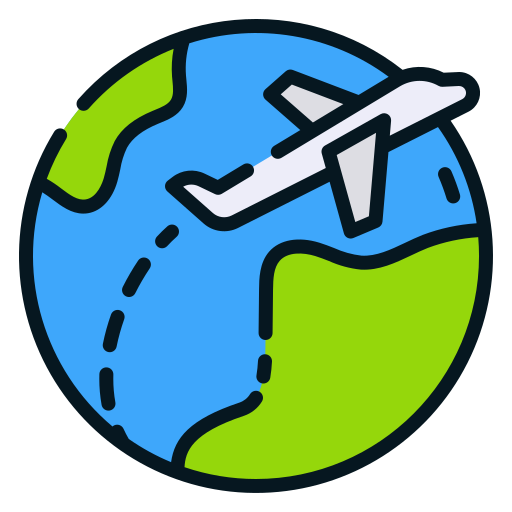
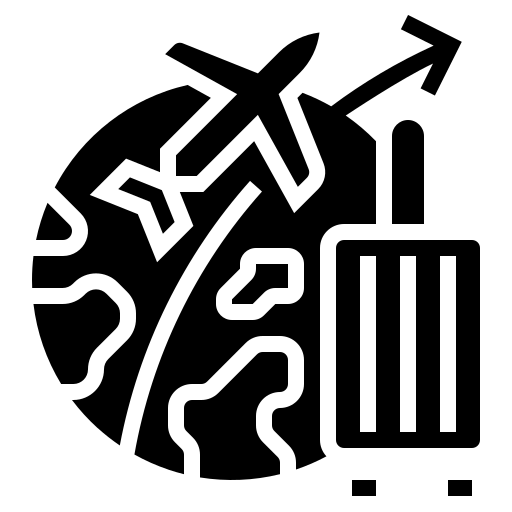
Upgrade UI

diff --git a/mypage.html b/mypage.html
@@ -96,7 +96,7 @@ font-size: 10px;
         box-shadow:
           0 8px 32px rgba(0, 0, 0, 0.35),
           inset 0 1px 0 rgba(255, 255, 255, 0.15);
-
+transition: color 0.2s ease, border-color 0.2s ease;
         color: rgb(255, 255, 255);
       }
 
@@ -106,7 +106,7 @@ font-size: 10px;
       .linkedin:hover,
       .tweeter:hover {
         background-color: rgba(1, 7, 21, 0.355);
-        transition: 0.7s;
+         transition: color 0.2s ease, border-color 0.2s ease;
         transform: scale(0.97);
         color: rgb(26, 175, 26);
       }
@@ -139,6 +139,16 @@ font-size: 10px;
         border-radius: 16px;
         border: 1px solid  rgba(255, 255, 255, 0.41);;
         
+      }
+
+        .tourizm:hover,
+      .tweet:hover,
+      .link:hover,
+      .tweet:hover,
+      .soft:hover,
+      .git:hover{
+     background-color: white;
+     outline: none;
       }
       .img-man{
         height: 100px;
@@ -173,7 +183,7 @@ font-size: 10px;
   <body>
     <div class="card">
       <img class="img-man" src="./javascript-amazon-project-main/img/software-engineer.png">
-      <h1>Hi Everyone, My name is Saidjon and I'm new to Full Stack Development (Software Engineering). I'm currently learning to write code using the VS Code editor. This page includes my social media links and materials.</h1>
+      <h1>Hi Everyone, My name is Saidjon and I'm new to Full Stack Development (Software Engineering). I'm currently learning to write code using the VS Code editor. This page includes my social media links and materials,I'm currently pursuing a Master's degree in Tourism Management in South Korea.</h1>
     </div>
 
     <div class="container">
@@ -195,13 +205,13 @@ font-size: 10px;
  
     
       <div class="card-container"v >
-         <img class="tourizm" src="./javascript-amazon-project-main/img/tourizm.png" >
+         <img class="tourizm" src="./javascript-amazon-project-main/img/airplane-around-earth.png" >
   <div class="subject"> Tourism Management Materials </div>
       </div>
     
       <a href="https://www.linkedin.com/feed/">
      <div  class="card-container" >
-         <img class="link" src="./javascript-amazon-project-main/img/linkledin.webp" >
+         <img class="link" src="./javascript-amazon-project-main/img/linkedin.png" >
          <div class="linkedin"> LinkedIn </div>
       </div>
       </a>
@@ -221,7 +231,7 @@ font-size: 10px;
       <a href="https://discord.com/channels/@me">
 
       <div  class="card-container">
-        <img class="tweet" src="./javascript-amazon-project-main/img/communication.png" >
+        <img class="tweet" src="./javascript-amazon-project-main/img/discord.png" >
           <div class="tweeter"> Discord </div>
       </div>
       </a>
